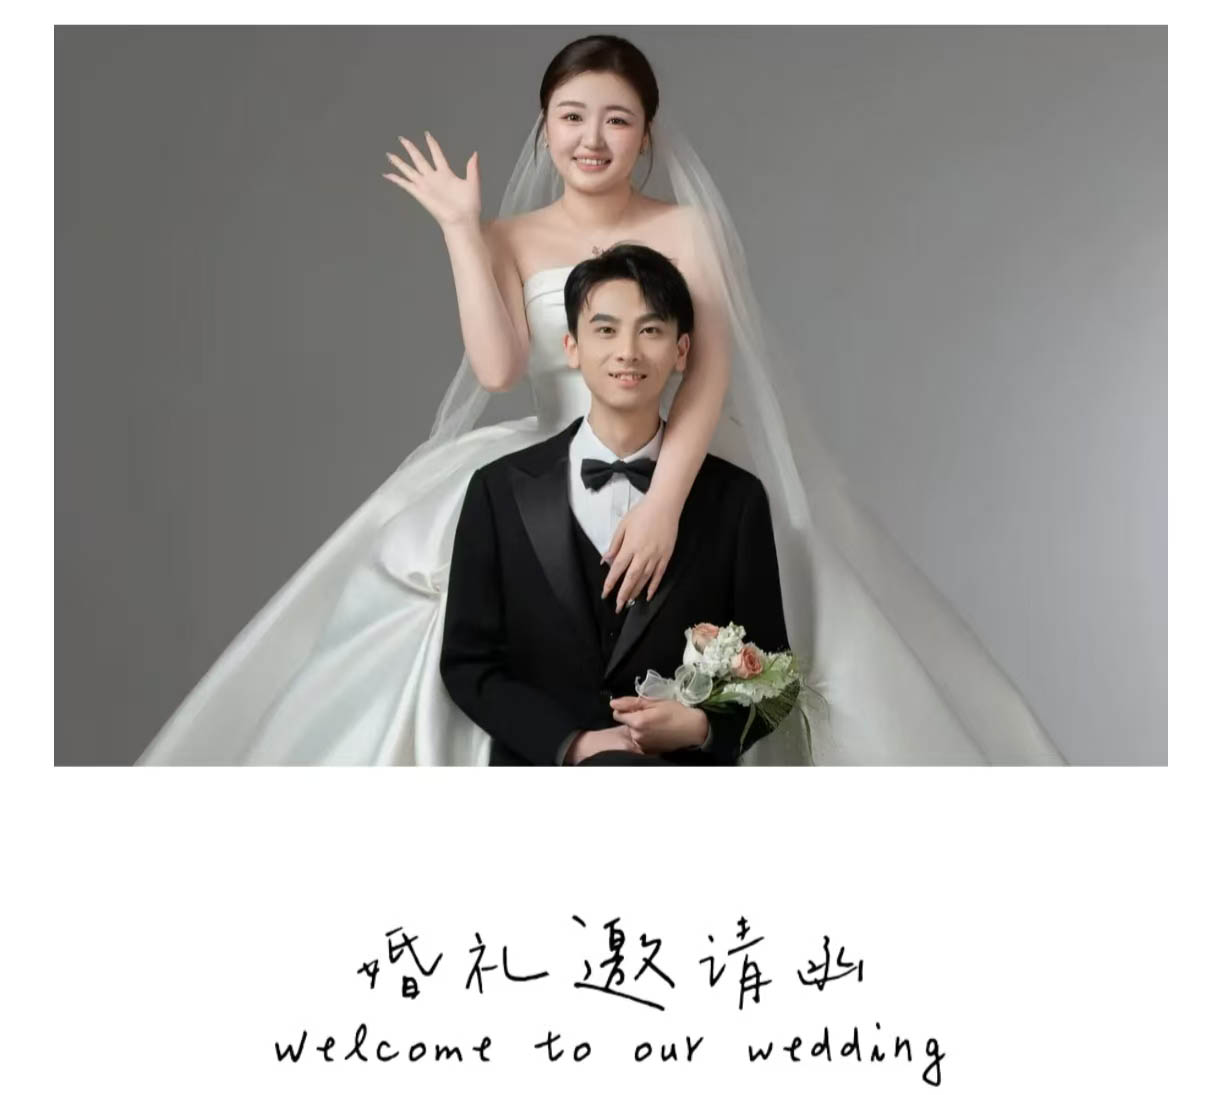
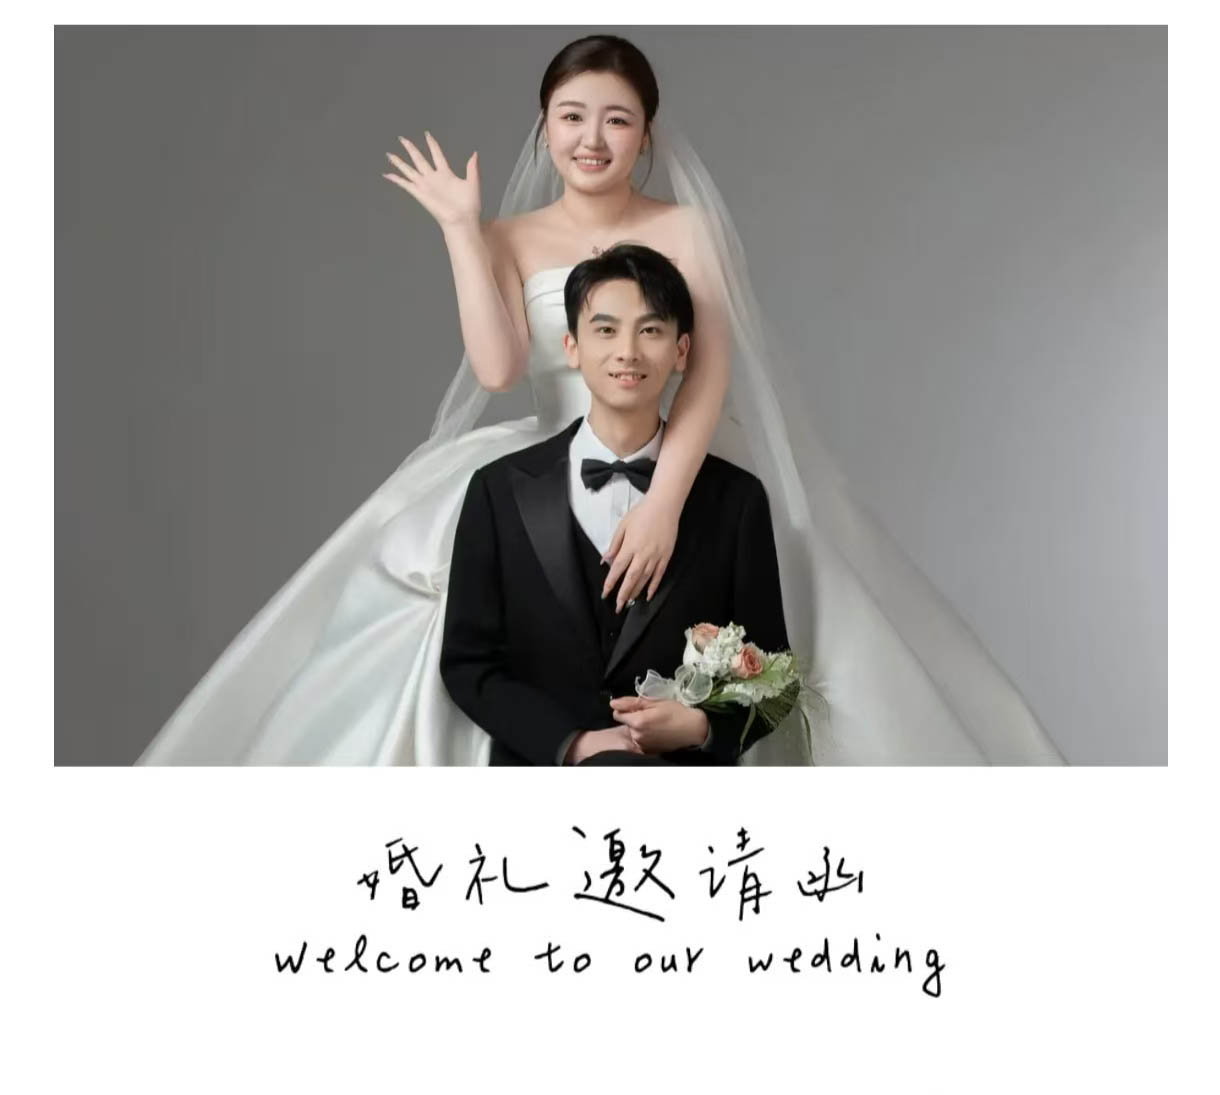
修改分享到会话的图片。去掉分享到会话的标题。修改中文内容

Changed region(s): [[0.218, 0.7452, 0.7787, 0.9936], [0.6541, 0.7763, 0.7164, 0.8384]]

diff --git a/miniprogram/pages/index/index.js b/miniprogram/pages/index/index.js
@@ -365,7 +365,6 @@ Page({
     // 分享到会话
     onShareAppMessage() {
         return {
-            title: '好久不见，婚礼见٩(๑^o^๑)۶',
             imageUrl: '../../images/shareAppMsg.jpg'
         }
     },
@@ -373,7 +372,6 @@ Page({
     // 分享到朋友圈
     onShareTimeline() {
         return {
-            title: '好久不见，婚礼见٩(๑^o^๑)۶',
             imageUrl: '../../images/shareTimeline.jpg'
         }
     },

diff --git a/miniprogram/pages/info/index.js b/miniprogram/pages/info/index.js
@@ -208,7 +208,6 @@ Page({
     // 分享到会话
     onShareAppMessage() {
         return {
-            title: '好久不见，婚礼见٩(๑^o^๑)۶',
             imageUrl: '../../images/shareAppMsg.jpg'
         }
     },
@@ -216,7 +215,6 @@ Page({
     // 分享到朋友圈
     onShareTimeline() {
         return {
-            title: '好久不见，婚礼见٩(๑^o^๑)۶',
             imageUrl: '../../images/shareTimeline.jpg'
         }
     },
